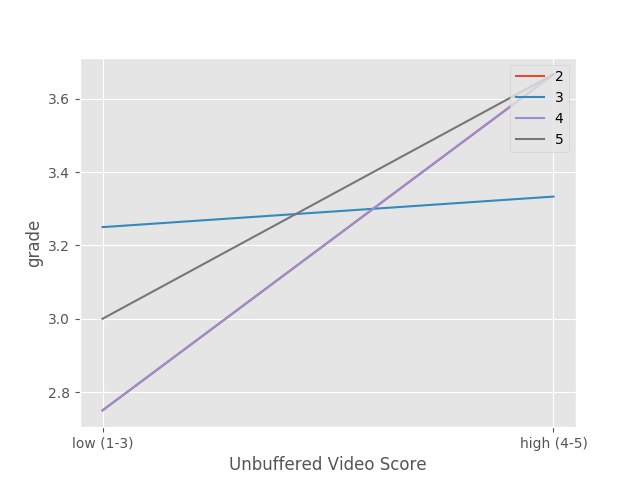
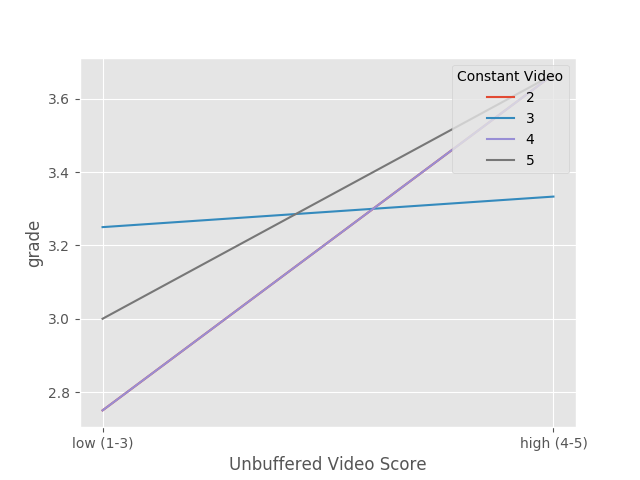
adding legend label to by_first_score plots

Changed region(s): [[0.7188, 0.125, 0.875, 0.3125], [0.7812, 0.2812, 0.8438, 0.3438]]

diff --git a/data/plot_by_first_score.py b/data/plot_by_first_score.py
@@ -99,10 +99,7 @@ def plot_by_first_score():
     for i in range(count - 1):
         plt.plot(x, means[i], label=str(i + 2))
 #        plt.errorbar(x, means[i], yerr=std_errs[i], fmt="-o", ecolor="red", alpha=0.5)
-
-#    plt.plot(x, means, "blue")
-#    plt.errorbar(x, means, yerr=std_errs, fmt="-o", ecolor="red", alpha=0.5)
-    plt.legend(loc='upper right', numpoints=1, fancybox=True)
+    plt.legend(title="Constant Video", loc='upper right', numpoints=1, fancybox=True)
     plt.savefig(plot_name)
 
     return [means, std_errs, list_stack]
